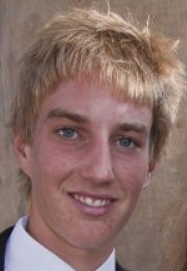
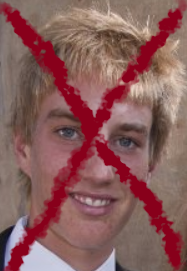
Bos omit

Changed region(s): [[0.0, 0.0, 1.0, 1.0]]

diff --git a/index.html b/index.html
@@ -8,6 +8,7 @@
     <link rel="stylesheet" href="https://stackpath.bootstrapcdn.com/bootstrap/4.5.2/css/bootstrap.min.css"
         integrity="sha384-JcKb8q3iqJ61gNV9KGb8thSsNjpSL0n8PARn9HuZOnIxN0hoP+VmmDGMN5t9UJ0Z" crossorigin="anonymous">
     <link rel="stylesheet" href="style.css">
+    <link rel="javascript" href="script.js">
 </head>
 
 <body>
@@ -28,7 +29,7 @@
             <div class="card-body">
                 <h2 class="card-title">William Bosisto</h2>
                 <h3 class="card-text"> Nickname: Bos</h3>
-                <h4 class="card-text">Style: Emotional</h4>
+                <h4 class="card-text">Style: OMITTED</h4>
             </div>
         </div>
         <div class="card">
@@ -79,6 +80,14 @@
                 <h2 class="card-title">Ben Hilliard</h2>
                 <h3 class="card-text"> Nickname: Grug / Greg</h3>
                 <h4 class="card-text">Style: Purist</h4>
+            </div>
+        </div>
+        <div class="card">
+            <img src="assets\Jaypic.png" class="card-img-top" alt="jay">
+            <div class="card-body">
+                <h2 class="card-title">Jay Saunders</h2>
+                <h3 class="card-text"> Nickname: Jayboy / Saundo</h3>
+                <h4 class="card-text">Style: Vocal</h4>
             </div>
         </div>
     </div>
